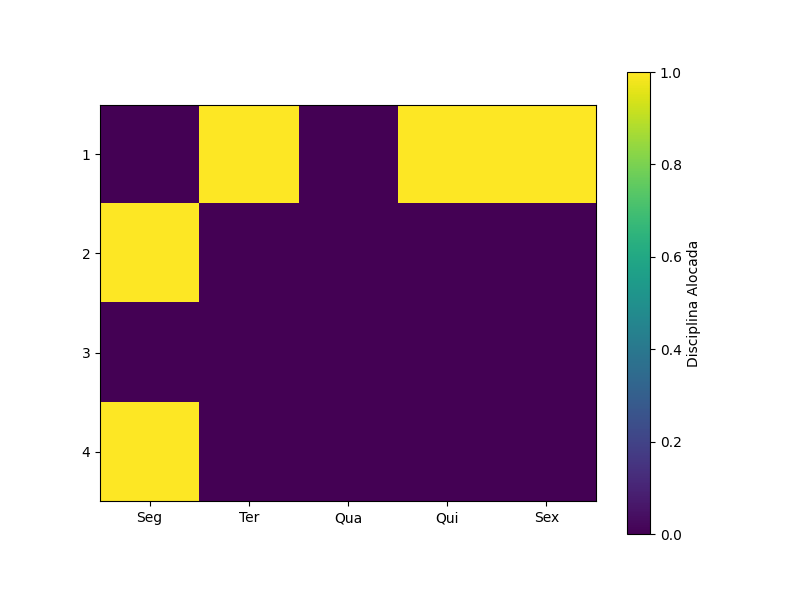
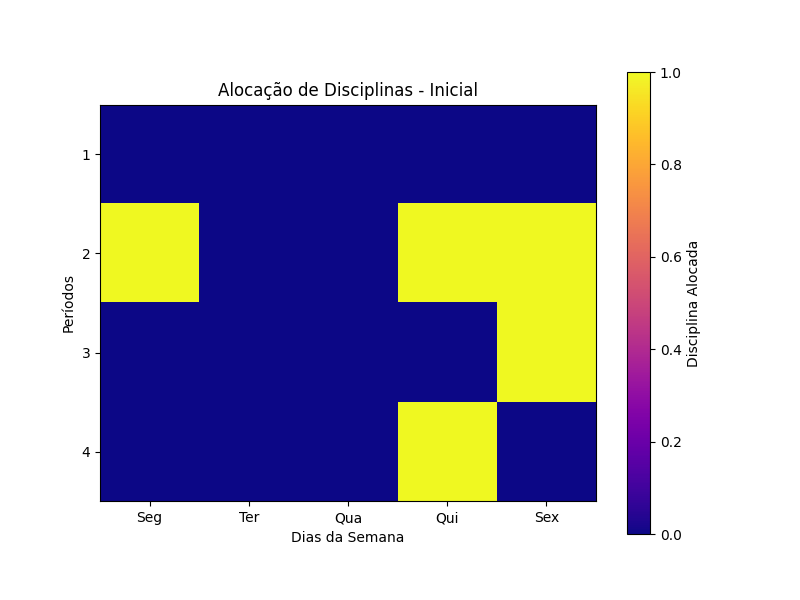
update função plot_horarios

diff --git a/ag.py b/ag.py
@@ -21,6 +21,74 @@ disciplinas = {
 def gerar_horario():
     return [random.randint(1, NUM_DISCIPLINAS) for _ in range(TAMANHO_PERIODO * NUM_PERIODOS)]
 
+def calcular_media_desvio(lista):
+    mean = np.mean(lista)
+    std = np.std(lista)
+    return mean, std
+
+def gerar_horario_aleatorio():
+    horarios = []
+    disciplinas_disponiveis = list(disciplinas.keys())
+    for _ in range(NUM_PERIODOS):
+        horario_periodo = []
+        for _ in range(TAMANHO_PERIODO):
+            horario_periodo.append(random.choice(disciplinas_disponiveis))
+        horarios.append(horario_periodo)
+    return horarios
+
+def gerar_horario_manual():
+    horarios = []
+    for periodo in range(NUM_PERIODOS):
+        horario = []
+        for disciplina in range(TAMANHO_PERIODO):
+            horario.append(input(f"Disciplina para o período {periodo} - horário {disciplina}: "))
+        horarios.append(horario)
+    return horarios
+
+def plot_horarios(cromossomo, label, otimizacao):
+    periods = len(cromossomo)
+    days = len(cromossomo[0])
+
+    # Criar uma matriz com zeros representando os horários vazios
+    data = np.zeros((periods, days))
+
+    # Preencher a matriz com os índices das disciplinas alocadas
+    for i in range(periods):
+        for j in range(days):
+            if cromossomo[i][j] != '':
+                data[i][j] = 1  
+
+    fig, ax = plt.subplots(figsize=(8, 6))
+    im = ax.imshow(data, cmap='plasma', interpolation='nearest')
+
+    # Definir rótulos e títulos
+    ax.set_xticks(np.arange(days))
+    ax.set_yticks(np.arange(periods))
+    ax.set_xticklabels(['Seg', 'Ter', 'Qua', 'Qui', 'Sex'])  # Dias da semana
+    ax.set_yticklabels(np.arange(1, periods + 1))  # Períodos
+
+    # Barra de cores
+    cbar = ax.figure.colorbar(im, ax=ax)
+    cbar.set_label('Disciplina Alocada')
+    
+    # Título do gráfico
+    plt.title(f'Alocação de Disciplinas - {label}')
+
+    # Rótulos dos eixos
+    plt.xlabel('Dias da Semana')
+    plt.ylabel('Períodos')
+    
+    # Salvar a imagem antes de mostrar
+    if otimizacao == 'antes':
+        plt.savefig('saida/antes_otimizacao.png')
+    elif otimizacao == 'depois':
+        plt.savefig('saida/depois_otimizacao.png')
+    
+    # Mostrar o gráfico
+    plt.show()
+    plt.close()
+
+
 def avaliar_horario(individuo):
     conflitos = 0
     # Dicionário para armazenar horários ocupados por disciplinas
@@ -55,8 +123,6 @@ def inicializar_populacao(pop_size):
     populacao = []
     for _ in range(pop_size):
         # Criar indivíduos com uma distribuição preferencial de disciplinas
-        # Aqui você pode aplicar sua heurística de escolha ou preferência
-        # Por exemplo, distribuição uniforme de disciplinas ou outras regras específicas
 
         # Criação de um indivíduo fictício como exemplo
         individuo = random.sample(disciplinas.keys(), len(disciplinas.keys()))
@@ -64,46 +130,6 @@ def inicializar_populacao(pop_size):
     
     return populacao
 
-def plot_horarios(cromossomo, label, otimizacao):
-    periods = len(cromossomo)
-    days = len(cromossomo[0])
-
-    # Criar uma matriz com zeros representando os horários vazios
-    data = np.zeros((periods, days))
-
-    # Preencher a matriz com os índices das disciplinas alocadas
-    for i in range(periods):
-        for j in range(days):
-            if cromossomo[i][j] != '':
-                data[i][j] = 1  
-
-    fig, ax = plt.subplots(figsize=(8, 6))
-    im = ax.imshow(data, cmap='viridis', interpolation='nearest')
-
-    # Definir rótulos e títulos
-    ax.set_xticks(np.arange(days))
-    ax.set_yticks(np.arange(periods))
-    ax.set_xticklabels(['Seg', 'Ter', 'Qua', 'Qui', 'Sex'])  # Dias da semana
-    ax.set_yticklabels(np.arange(1, periods + 1))  # Períodos
-
-    # Barra de cores
-    cbar = ax.figure.colorbar(im, ax=ax)
-    cbar.set_label('Disciplina Alocada')
-
-    # Salvar a imagem antes de mostrar
-    if otimizacao == 'antes':
-        plt.savefig('saida/antes_otimizacao.png')
-    elif otimizacao == 'depois':
-        plt.savefig('saida/depois_otimizacao.png')
-
-    # Mostrar o gráfico
-    plt.title(f'Alocação de Disciplinas - {label}')
-    plt.xlabel('Dias da Semana')
-    plt.ylabel('Períodos')
-    plt.show()
-    plt.close();
-    
-    
 def selecao(populacao):
     return tools.selRouletteWheel(populacao, len(populacao))
 
@@ -178,19 +204,38 @@ toolbox.register("mate", tools.cxBlend, alpha=0.5)
 toolbox.register("mutate", tools.mutUniformInt, low=1, up=NUM_DISCIPLINAS, indpb=0.2)
 toolbox.register("select", tools.selTournament, tournsize=3)
 
+def sucesso():
+    # Número de conflitos de horário na solução inicial
+    print("Número de conflitos de horário na solução inicial:", len(horarios_iniciais))
+
+    # Número de conflitos de horário na solução otimizada
+    print("Número de conflitos de horário na solução otimizada:", len(horarios_otimizados_depois))
+
+    # Cálculo de média e desvio padrão para as estatísticas
+    media_inicial, desvio_inicial = calcular_media_desvio(fit_mins)
+    print("Média de conflitos de horário mínima:", media_inicial)
+    print("Desvio padrão de conflitos de horário mínima:", desvio_inicial)
+
+    media_media, desvio_media = calcular_media_desvio(fit_avgs)
+    print("Média de conflitos de horário média:", media_media)
+    print("Desvio padrão de conflitos de horário média:", desvio_media)
+
+    media_maxima, desvio_maxima = calcular_media_desvio(fit_maxs)
+    print("Média de conflitos de horário máxima:", media_maxima)
+    print("Desvio padrão de conflitos de horário máxima:", desvio_maxima)
+
 if __name__ == "__main__":
     horarios_iniciais = gerar_horario_inicial()
-    plot_horarios(horarios_iniciais, 'Inicial', None)
+    plot_horarios(horarios_iniciais, 'Inicial', 'antes')
 
     pop_final, logbook = algoritmo_genetico(n_gen=500)  
 
-    # estatísticas adicionais
     gen = logbook.select("gen")
     fit_mins = logbook.select("min")
     fit_avgs = logbook.select("avg")
     fit_maxs = logbook.select("max")
     diversity = logbook.select("diversity")
-    
+        
     # horários otimizados pós algoritmo genético
     horarios_otimizados_depois = criar_cromossomo(disciplinas, NUM_PERIODOS, TAMANHO_PERIODO)
     plot_horarios(horarios_otimizados_depois, 'Otimizado', 'depois')
@@ -201,3 +246,5 @@ if __name__ == "__main__":
     imprimir_horarios_finais(horarios_finais)
     for periodo in horarios_finais:
         print(periodo)
+        
+    sucesso()

diff --git a/ag_pandas.py b/ag_pandas.py
@@ -37,7 +37,7 @@ def plot_horarios_pandas(cromossomo, label):
     df.index = np.arange(1, periods + 1)
 
     plt.figure(figsize=(8, 6))
-    plt.imshow(df, cmap='viridis', interpolation='nearest')
+    plt.imshow(df, cmap='cividis', interpolation='nearest')
 
     plt.colorbar(label='Disciplina Alocada')
     plt.title(f'Alocação de Disciplinas - {label}')
